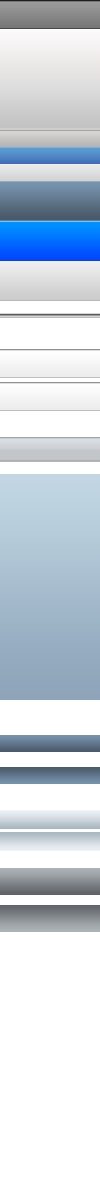
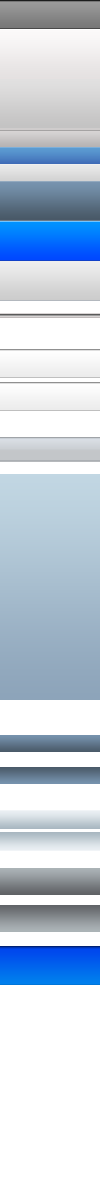
-Correctly refresh properties on detail view action -Support async edit action -Make action notification section optional -Add save button to apply detail view edit -Fix indentation, button spacing for multi-edit items

Changed region(s): [[0.0, 0.7708, 1.0, 0.8325]]

diff --git a/ui/scripts/ui/widgets/detailView.js b/ui/scripts/ui/widgets/detailView.js
@@ -60,7 +60,8 @@
      */
     standard: function($detailView, args, additional) {
       var action = args.actions[args.actionName];
-      var notification = action.notification;
+      var notification = action.notification ?
+            action.notification : {};
       var messages = action.messages;
       var messageArgs = { name: $detailView.find('tr.name td.value').html() };
       var id = args.id;
@@ -98,6 +99,10 @@
 
         var $form = options.$form;
 
+        // Set loading appearance
+        var $loading = $('<div>').addClass('loading-overlay');
+        $detailView.prepend($loading);
+
         action.action({
           data: data,
           _custom: _custom,
@@ -109,11 +114,6 @@
               args = args ? args : {};
               notification._custom = args._custom;
 
-              // Set loading appearance
-              $detailView.prepend(
-                $('<div>').addClass('loading-overlay')
-              );
-
               if (additional && additional.success) additional.success(args);
 
               // Setup notification
@@ -121,12 +121,15 @@
                 notification,
                 function(args) {
                   if ($detailView.is(':visible')) {
-                    $detailView.find('.loading-overlay').remove();
+                    $loading.remove();
 
                     // Refresh actions
                     loadTabContent(
                       $detailView.find('.detail-group:visible'),
-                      $detailView.data('view-args')
+                      $detailView.data('view-args'),
+                      {
+                        newData: args.data
+                      }
                     );
                   }
 
@@ -203,70 +206,102 @@
      * @param callback
      */
     edit: function($detailView, args) {
+      if ($detailView.find('.button.done').size()) return false;
+      
       // Convert value TDs
       var $inputs = $detailView.find('input[type=text], select');
+      var action = args.actions[args.actionName];
+      var id = $detailView.data('view-args').id;
+      var $editButton = $('<div>').addClass('button done').html('Apply')
+            .hide()
+            .appendTo(
+              $detailView.find('.ui-tabs-panel:visible')
+            )
+            .fadeIn('fast');
 
-      if ($inputs.size()) {
-        $inputs.animate({ opacity: 0.5 }, 500);
-
-        var data = {};
+      var convertInputs = function($inputs) {
+        // Save and turn back into labels
         $inputs.each(function() {
-          data[$(this).attr('name')] = $(this).val();
-        });
+          var $input = $(this);
+          var $value = $input.closest('td.value');
 
-        args.actions[args.actionName].action({
-          data: data,
-          _custom: $detailView.data('_custom'),
-          context: $detailView.data('view-args').context,
-          response: {
+          if ($input.is('input[type=text]'))
+            $value.html(
+              $input.attr('value')
+            );
+          else if ($input.is('select')) {
+            $value.html(
+              $input.find('option:selected').html()
+            );
+            $value.data('detail-view-selected-option', $input.find('option:selected').val());
+          }
+        });                
+      };
+
+      var applyEdits = function($inputs, $editButton) {
+        if ($inputs.size()) {
+          $inputs.animate({ opacity: 0.5 }, 500);
+
+          var data = {};
+          $inputs.each(function() {
+            data[$(this).attr('name')] = $(this).val();
+          });
+
+          $editButton.fadeOut('fast', function() {
+            $editButton.remove();
+          });
+
+          var $loading = $('<div>').addClass('loading-overlay');
+
+          action.action({
             data: data,
-            success: function(data) {
-              // Save and turn back into labels
-              $inputs.each(function() {
-                var $input = $(this);
-                var $value = $input.closest('td.value');
-
-                if ($input.is('input[type=text]'))
-                  $value.html(
-                    $input.attr('value')
-                  );
-                else if ($input.is('select')) {
-                  $value.html(
-                    $input.find('option:selected').html()
-                  );
-                  $value.data('detail-view-selected-option', $input.find('option:selected').val());
-                }
-              });
-
-              var id = $detailView.data('view-args').id
-
-              addNotification(
-                {
+            _custom: $detailView.data('_custom'),
+            context: $detailView.data('view-args').context,
+            response: {
+              data: data,
+              success: function(data) {
+                var notificationArgs = {
                   section: id,
                   desc: 'Changed item properties'
-                },
-                function(data) {
-                },
-                []
-              );
-            },
-            error: function(args) {
-              // Put in original values on error
-              $inputs.each(function() {
-                var $input = $(this);
-                var $value = $input.closest('td.value');
-                var originalValue = $input.data('original-value');
+                };
 
-                $value.html(originalValue);
-              });
+                if (!action.notification) {
+                  convertInputs($inputs);
+                  addNotification(
+                    notificationArgs, function(data) {}, []
+                  ); 
+                } else {
+                  $loading.appendTo($detailView);
+                  addNotification(
+                    $.extend(true, {}, action.notification, notificationArgs),
+                    function(args) {
+                      convertInputs($inputs);
+                      $loading.remove();
+                    }, []
+                  );
+                }
+              },
+              error: function(args) {
+                // Put in original values on error
+                $inputs.each(function() {
+                  var $input = $(this);
+                  var $value = $input.closest('td.value');
+                  var originalValue = $input.data('original-value');
 
-              if (args.message) cloudStack.dialog.notice({ message: args.message });
+                  $value.html(originalValue);
+                });
+
+                if (args.message) cloudStack.dialog.notice({ message: args.message });
+              }
             }
-          }
-        });
+          });
+        }
+      };
 
-        return $detailView;
-      }
+      $editButton.click(function() {
+        var $inputs = $detailView.find('input[type=text], select');
+        applyEdits($inputs, $editButton);
+      });
 
       $detailView.find('td.value').each(function() {
         var name = $(this).closest('tr').data('detail-view-field');
@@ -587,8 +622,10 @@
    *
    * @param $tabContent {jQuery} tab div to load content into
    * @param args {object} Detail view data
+   * @param options {object} Additional options
    */
-  var loadTabContent = function($tabContent, args) {
+  var loadTabContent = function($tabContent, args, options) {
+    if (!options) options = {};
     $tabContent.html('');
 
     var targetTabID = $tabContent.data('detail-view-tab-id');
@@ -622,10 +659,14 @@
     return dataProvider({
       tab: targetTabID,
       id: args.id,
-      jsonObj: args.jsonObj,
+      jsonObj: options.newData ? $.extend(true, {}, args.jsonObj, options.newData) : args.jsonObj,
       context: args.context,
       response: {
         success: function(args) {
+          if (options.newData) {
+            $.extend(args.data, options.newData);
+          }
+          
           if (args._custom) {
             $detailView.data('_custom', args._custom);
           }

diff --git a/ui/css/cloudstack3.css b/ui/css/cloudstack3.css
@@ -122,6 +122,14 @@ table tbody td.actions {
   vertical-align: middle;
 }
 
+table tbody td.actions input {
+  /*+placement:shift 10px -6px;*/
+  position: relative;
+  left: 10px;
+  top: -6px;
+  margin: 11px 0 0px;
+}
+
 table tbody tr {
   border-left: 1px solid #C4C5C5;
   border-right: 1px solid #C4C5C5;
@@ -796,7 +804,8 @@ div.notification-box .button.close:hover {
 /*** Corner alert*/
 div.notification.corner-alert {
   background: #EBE8E8;
-  width: 260px;
+  display: inline-block;
+  min-width: 260px;
   height: 70px;
   position: absolute;
   text-indent: 10px;
@@ -1013,14 +1022,6 @@ div.list-view td.state.off {
   top: 2px;
 }
 
-.project-view .ui-tabs ul {
-  /*+placement:shift 0px 0px;*/
-  position: relative;
-  left: 0px;
-  top: 0px;
-  height: 39px;
-}
-
 .ui-tabs .info {
   background: #EFEFEF;
   width: 91%;
@@ -1207,6 +1208,41 @@ div.list-view td.state.off {
 
 .detail-group.head table td.name {
   padding: 20px 0px 17px;
+}
+
+.detail-view .button.done {
+  display: inline-block;
+  color: #FFFFFF;
+  font-size: 12px;
+  font-weight: bold;
+  /*+border-radius:10px;*/
+  -moz-border-radius: 10px;
+  -webkit-border-radius: 10px;
+  -khtml-border-radius: 10px;
+  border-radius: 10px 10px 10px 10px;
+  /*+text-shadow:0px -1px 2px #000000;*/
+  -moz-text-shadow: 0px -1px 2px #000000;
+  -webkit-text-shadow: 0px -1px 2px #000000;
+  -o-text-shadow: 0px -1px 2px #000000;
+  text-shadow: 0px -1px 2px #000000;
+  /*+box-shadow:0px 1px 4px #ADADAD;*/
+  -moz-box-shadow: 0px 1px 4px #ADADAD;
+  -webkit-box-shadow: 0px 1px 4px #ADADAD;
+  -o-box-shadow: 0px 1px 4px #ADADAD;
+  box-shadow: 0px 1px 4px #ADADAD;
+  cursor: pointer;
+  margin: 0 0 0 12px;
+  padding: 9px 20px;
+  background: url(../images/bg-gradients.png) 0px -221px;
+}
+
+.detail-view .button.done:hover {
+  background-position: 0px -950px;
+  /*+box-shadow:inset 0px 1px 3px #000000;*/
+  -moz-box-shadow: inset 0px 1px 3px #000000;
+  -webkit-box-shadow: inset 0px 1px 3px #000000;
+  -o-box-shadow: inset 0px 1px 3px #000000;
+  box-shadow: inset 0px 1px 3px #000000;
 }
 
 div.group-multiple div.detail-group table {
@@ -1778,7 +1814,7 @@ div.detail-group.actions td {
 }
 
 .project-view .ui-tabs div.ui-tabs-panel {
-  background: #DBDDDF;
+  background: #C7C7C7 0px 9px;
 }
 
 #browser div.panel .shadow {
@@ -5109,6 +5145,7 @@ div.panel.ui-dialog div.list-view div.fixed-header {
   border: none;
   width: 100%;
   margin: 0;
+  text-indent: 37px;
 }
 
 .multi-edit .data .data-body .data-item .expandable-listing tr.odd td {

diff --git a/ui/scripts-test/storage.js b/ui/scripts-test/storage.js
@@ -403,10 +403,9 @@
               edit: {
                 label: 'Edit volume details',
                 action: function(args) {
-                  args.response.success();
-                },
-                notification: {
-                  poll: testData.notifications.testPoll
+                  setTimeout(function() {
+                    args.response.success();                    
+                  }, 500);
                 }
               },
               snapshot: {

diff --git a/ui/index-test.html b/ui/index-test.html
@@ -374,7 +374,7 @@
       <div class="multi-wizard zone-wizard">
         <div class="progress">
           <ul>
-            <li class="first"><span class="number">1</span><span>Zone Type</span><span class="arrow"></span></li>
+            <li class="first"><span class="number">1</span><span>Select Type</span><span class="arrow"></span></li>
             <li class="last"><span class="number">2</span><span>Setup Zone</span></li>
           </ul>
         </div>

diff --git a/ui/scripts-test/domains.js b/ui/scripts-test/domains.js
@@ -61,7 +61,7 @@
 
             messages: {
               notification: function(args) {
-                return 'Created domain'
+                return 'Created domain';
               }
             },
 
@@ -78,10 +78,6 @@
                   validation: { required: true }
                 }
               }
-            },
-
-            notification: {
-              poll: testData.notifications.testPoll
             }
           }
         },

diff --git a/ui/scripts/ui-custom/enableStaticNAT.js b/ui/scripts/ui-custom/enableStaticNAT.js
@@ -53,7 +53,7 @@
         title: 'Select VM for Static NAT',
         buttons: [
           {
-            text: 'Done',
+            text: 'Apply',
             'class': 'ok',
             click: function() {
               var complete = args.complete;

diff --git a/ui/scripts/ui/multiEdit.js b/ui/scripts/ui/multiEdit.js
@@ -535,7 +535,7 @@
         title: args.add.label,
         buttons: [
           {
-            text: 'Done',
+            text: 'Apply',
             'class': 'ok',
             click: function() {
               $dataList.fadeOut(function() {
